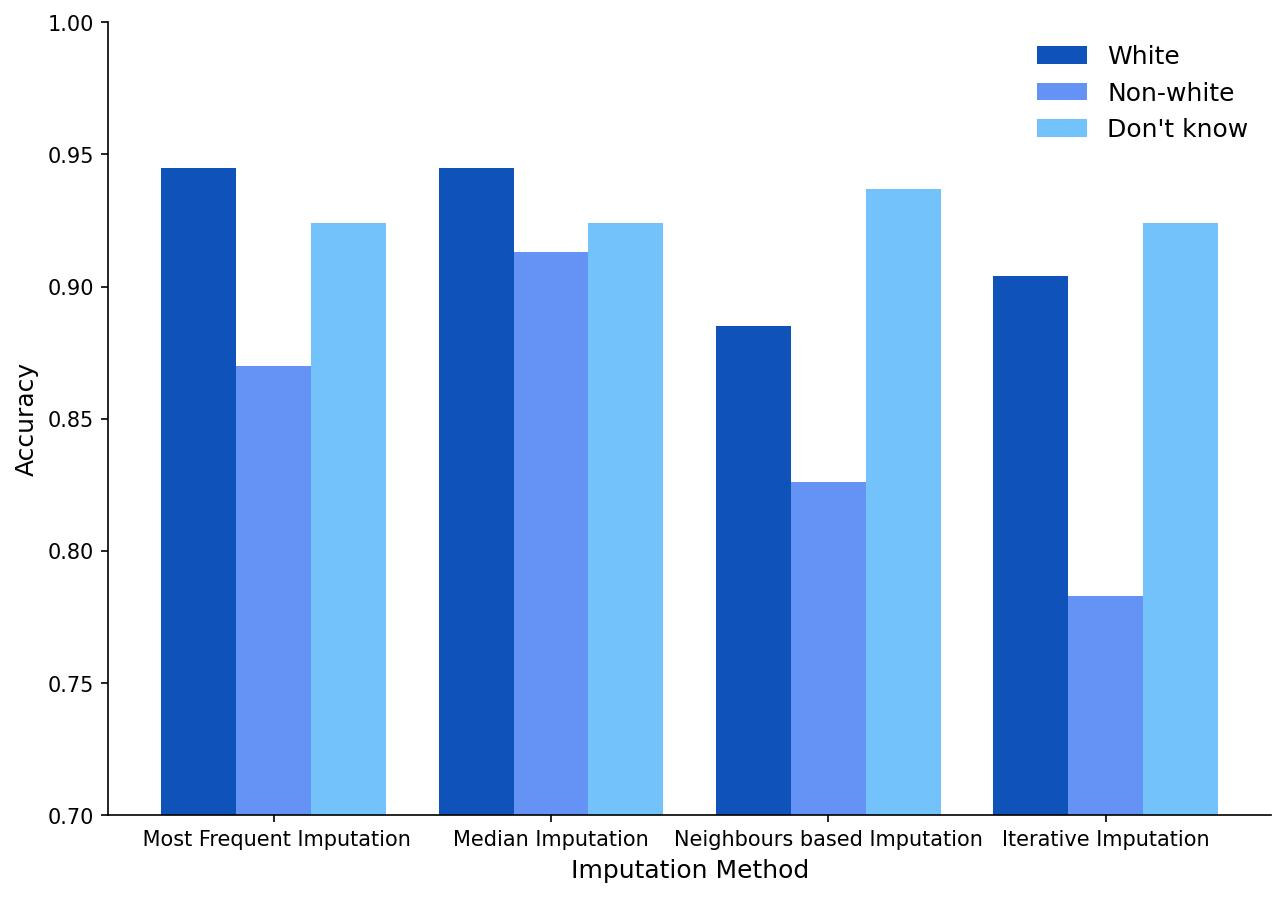
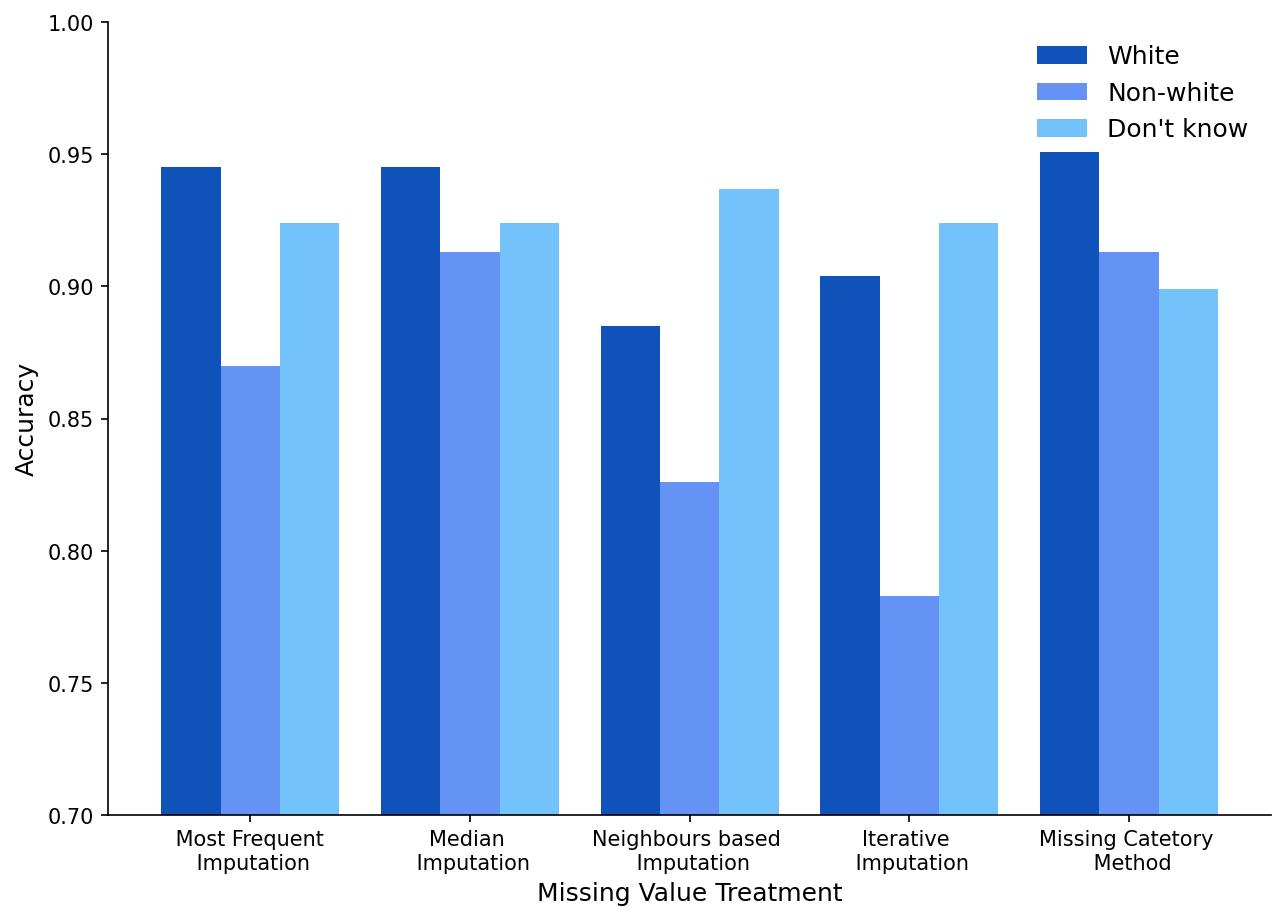
default

diff --git a/README.md b/README.md
@@ -38,23 +38,23 @@ Firstly, we completed some data cleaning tasks on both the training and test set
 
 Interestingly, Fig. 1 shows the final outcome for the owners' gender. As we can see, female owners have a more chance of securing a financial product, while male owners would be more pessimistic about their main bank treating them fairly.
 
-![gender](./fig/gender.jpg)
+<img src="./fig/gender.jpg" alt="gender" style="zoom:30%;" />
 
 <center>Fig. 1. The final outcome with respect to the gender of the business owner.</center>
 
-![gender_trust](./fig/gender_trust.jpg)
+<img src="./fig/gender_trust.jpg" alt="gender_trust" style="zoom:30%;" />
 
 <center>Fig. 2. To what extent, trust the MAIN BANK to treat them fairly.</center>
 
 On the other hand, when considering the ethnic background, we divide the background category into five classes, i.e., white background, Asian background, black background, and mixed background. Loan applications with a black background have the highest probability of default, while businesses with white backgrounds are the most likely to secure financial products successfully in Fig. 3. Besides, the other backgrounds have an equal chance of loans. Similarly, the owners with the black background gave the least score on the treatment of their MAIN BANK in Fig. 4.
 
-![ethnic](./fig/ethnic.jpg)
+<img src="./fig/ethnic.jpg" alt="ethnic" style="zoom:46%;" />
 
 <center>Fig. 3. The final outcome with respect to the ethnic background of the business owner.</center>
 
 
 
-![ethnic](./fig/ethnic_trust.jpg)
+<img src="./fig/ethnic_trust.jpg" alt="ethnic" style="zoom:46%;" />
 
 <center>Fig. 4. To what extent, trust the MAIN BANK to treat them fairly.</center>
 
@@ -99,12 +99,13 @@ Finally, we updated the predictability of each variable in the variable list.xls
 
 ## Preliminary Experiments
 
-Finally, we are attempting to do some preliminary experiments and show some initial results when we do several crude imputations of missing values. We fit a `LOGISTIC` regression model on our training set and evaluate it using k-fold cross-validation. 
+Finally, we are attempting to do some preliminary experiments and show some initial results when we do several imputation methods of missing values. We fit a `LOGISTIC` regression model on our training set and evaluate it using k-fold cross-validation. 
 
 1. Imputing the data using ***Most Frequent Imputation***: our AUROC on the test set comes out to *0.9408* with a Gini of *0.8815*.
 2. Imputing the data using ***Median Imputation***: our AUROC on the test set comes out to *0.9405* with a Gini of *0.8810*.
 3. Imputing the data using ***Neighbours based Imputation***: our AUROC on the test set comes out to *0.8776* with a Gini of *0.7552*.
 4. Imputing the data using ***Iterative Imputation***. The final method of imputation is iterative imputation based on a regression model. The idea is to iterate over columns and create a new modelling task: predict this column given all the other columns. Furthermore, our AUROC and Gini are *0.8542* and *0.7082*, respectively.
+5. Except data imputation methods, we do a crude process, ***Missing Category*** method for missing values, which will treated as a separate category by itself. We create another category for the missing values and use them as a different level. Therefore, we obtain the performance of the classifier i.e., AUROC is *0.9632* and Gini is *0.9264*.
 
 As we can see, given the high proportion of missing values, any technique to impute them will most likely result in inaccurate results.
 
@@ -117,6 +118,8 @@ We simply remove these sensitive  attributes, thus the classifier is unaware of 
 <center>Fig. 5. Classifiers' accuracy w.r.t. the ethnic background of the business owner over four inputation methods.</center>
 
 Even though the sensitive attributes were removed, classifiers are still failed to be unbiased against the certain races. As we can see, different imputation methods affect the fairness of classifiers in Fig. 5. 
+
+<img src="./fig/ethnic_default.jpg" alt="ethnic_default" style="zoom:40%;" />
 
 ## Next Steps
 
